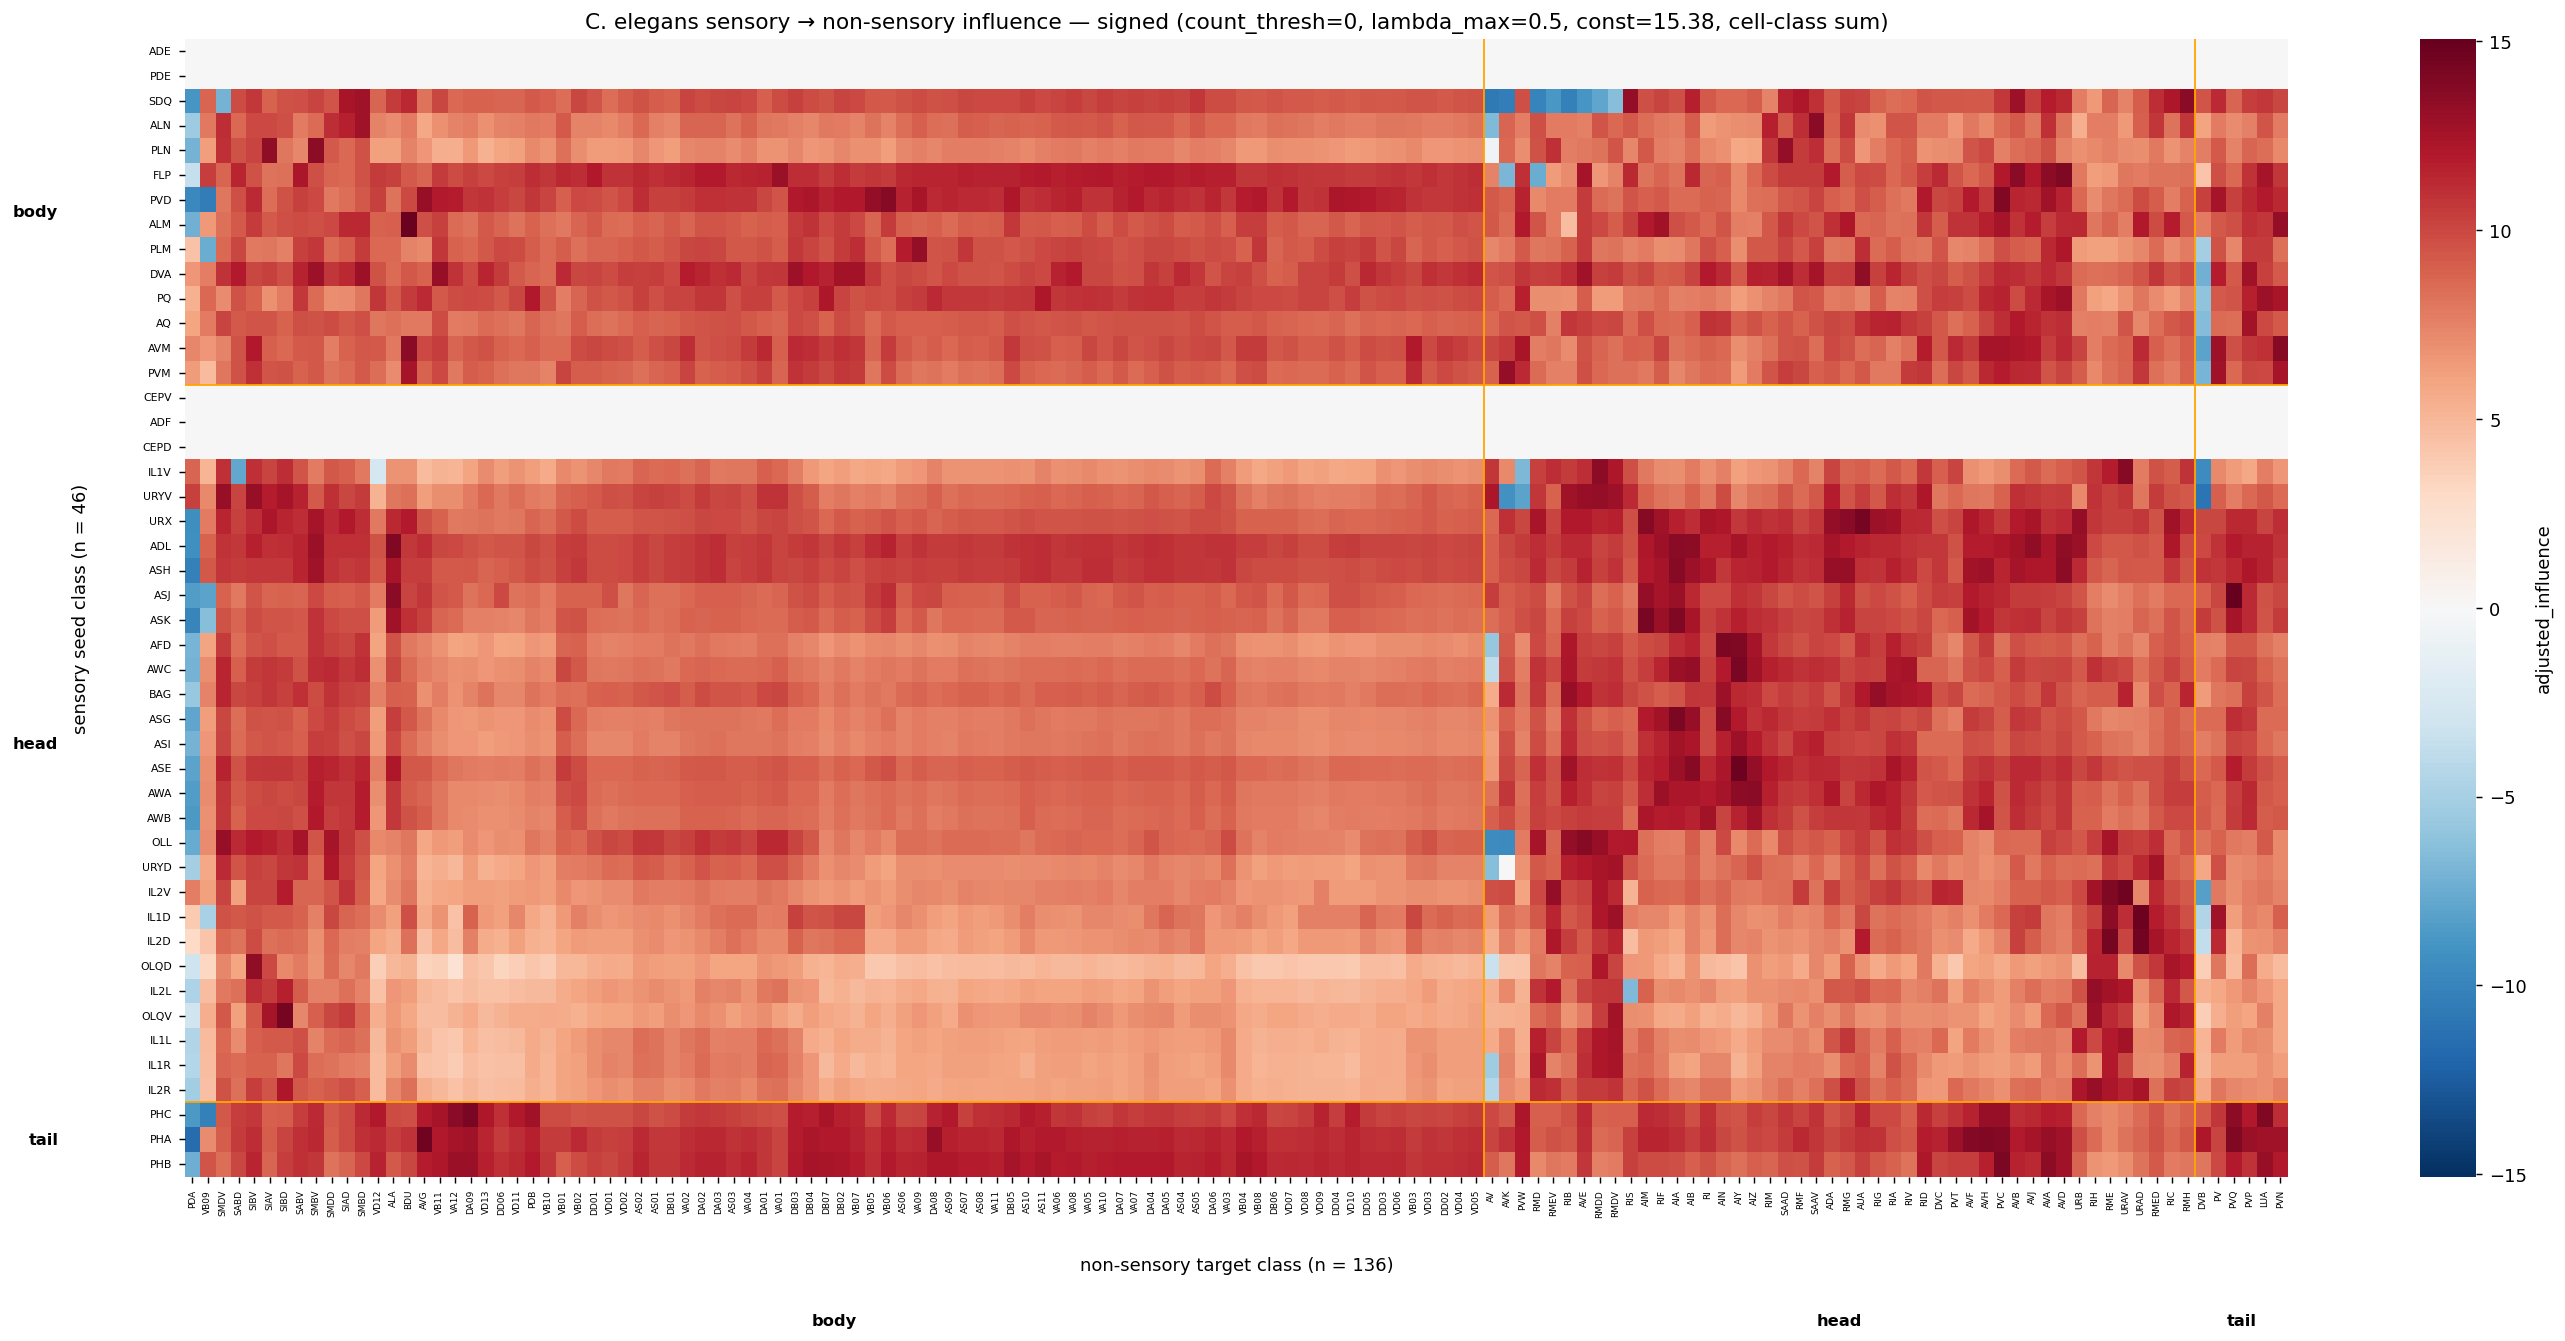
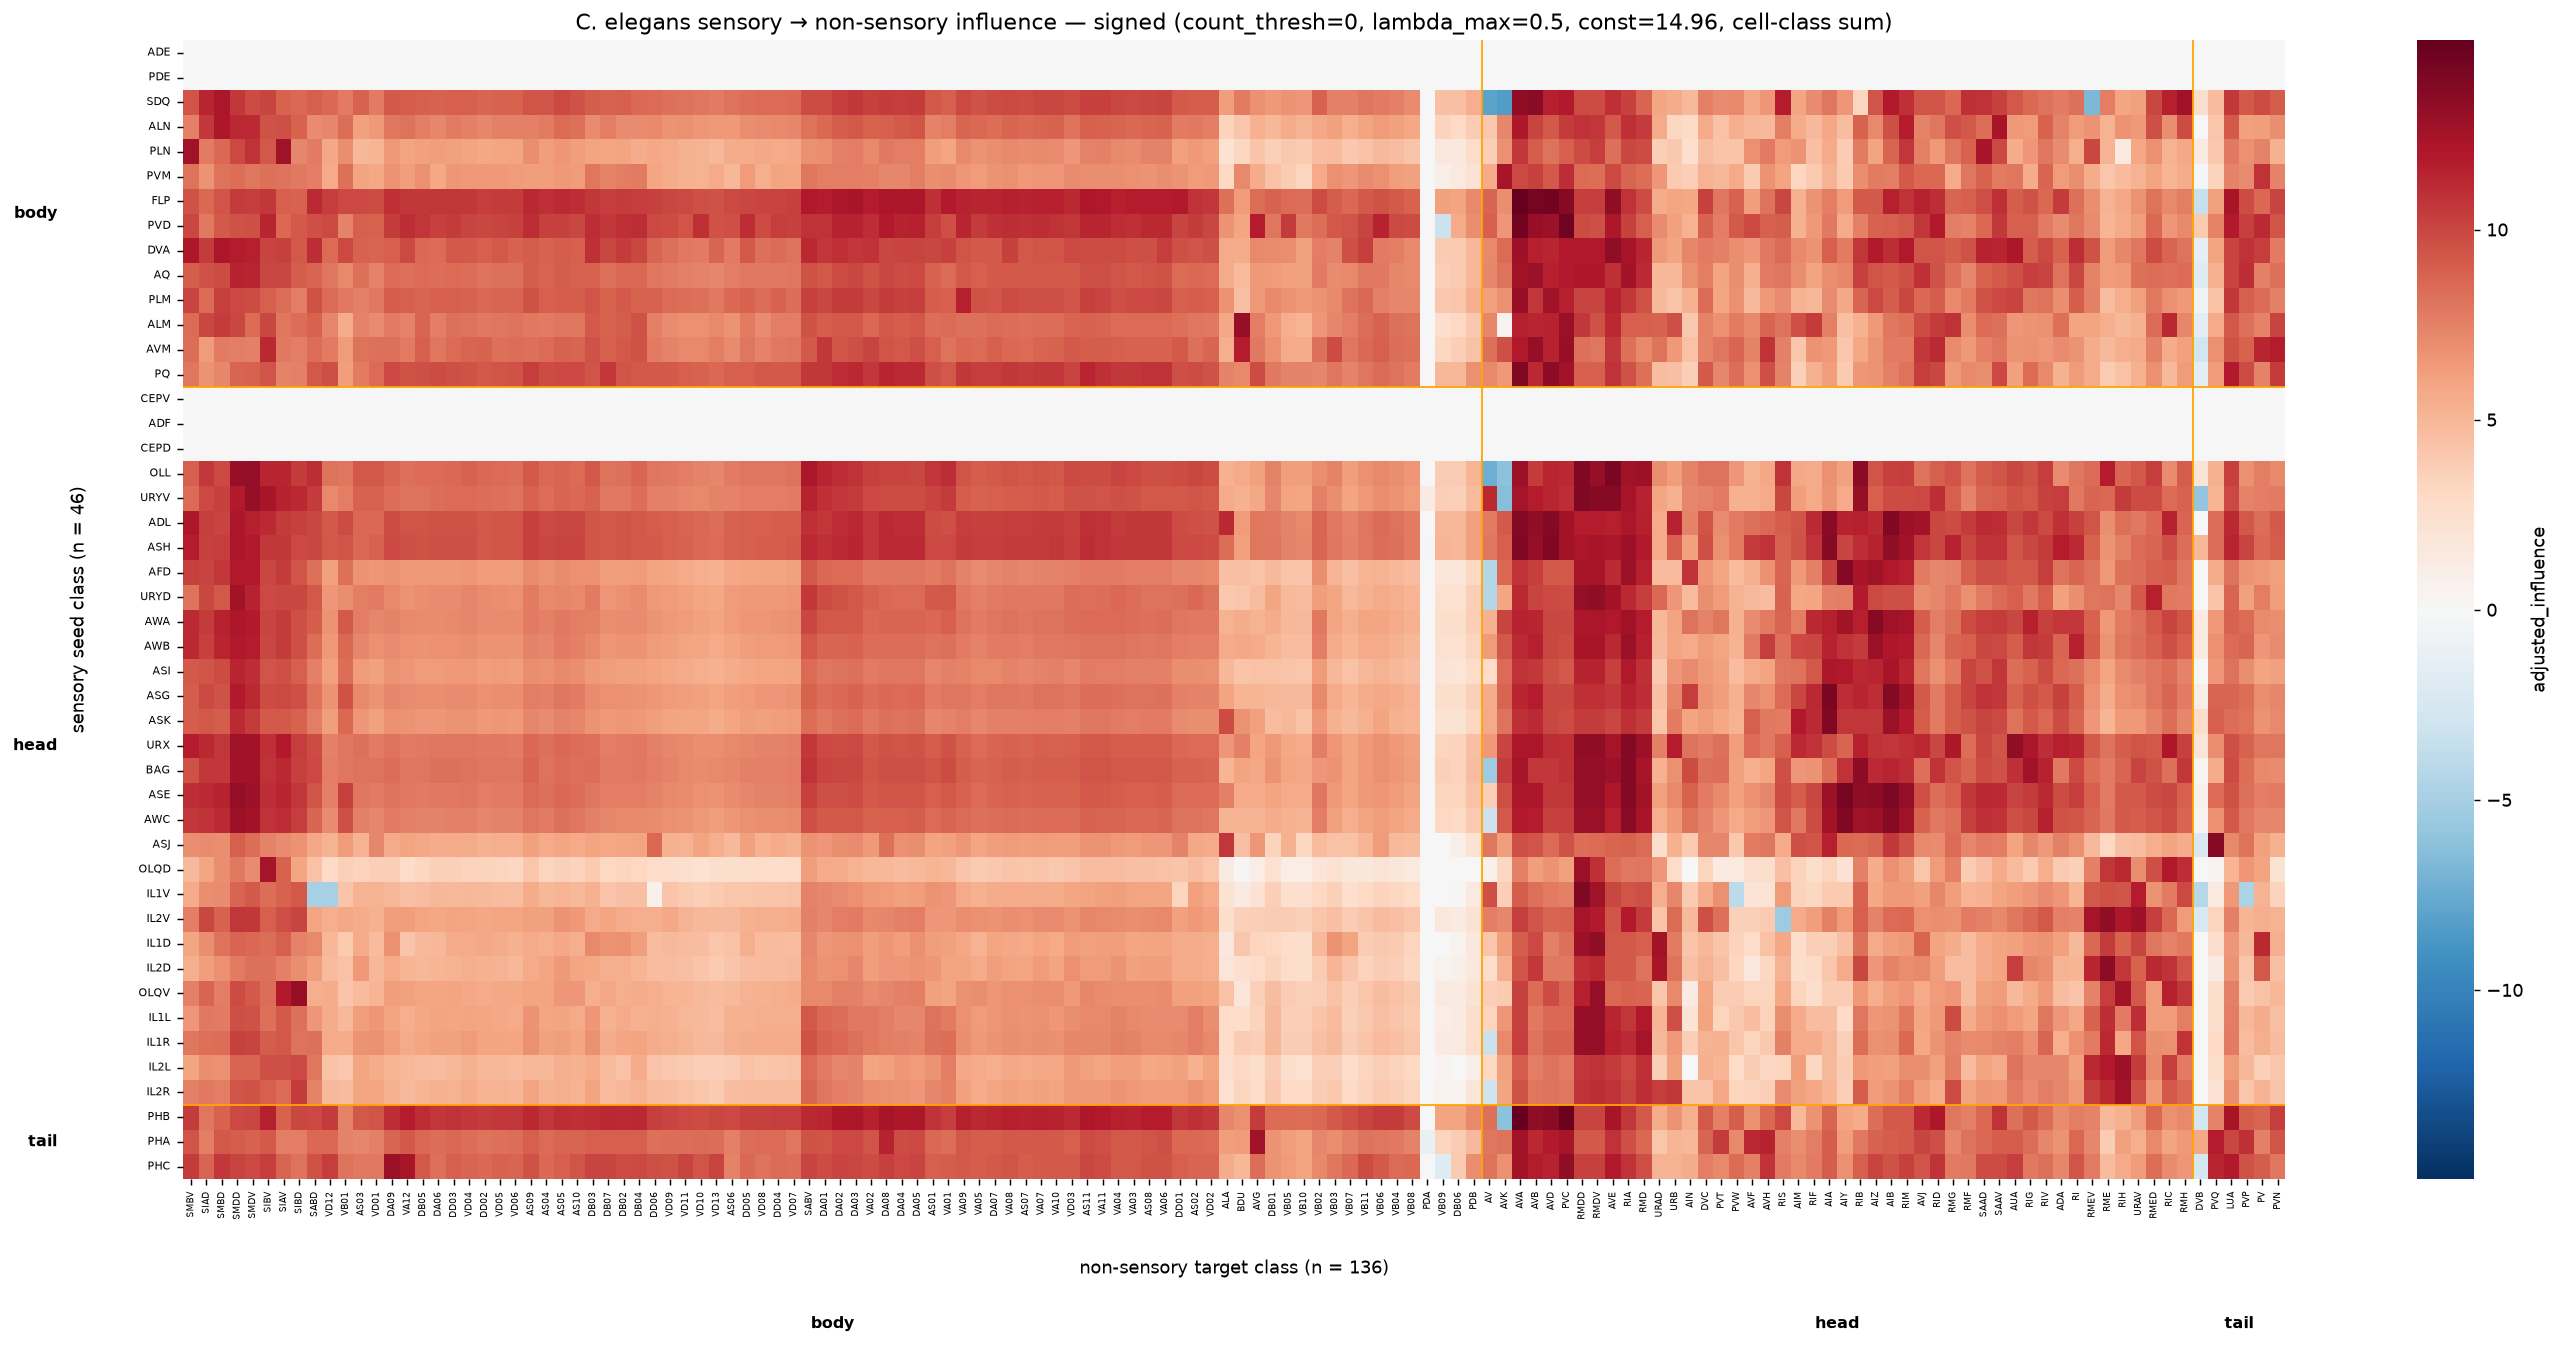
Make worked-example const reproducible across machines
The example auto-calibrated adjust_influence's `const` as
-log(min nonzero |per-pair sum|).  Anchoring to the absolute minimum
is not portable: the smallest non-zero magnitude belongs to a
near-disconnected (target, seed) pair and is dominated by GMRES
round-off (~1e-12), which varies by PETSc/SLEPc/BLAS build and
platform.  Feeding that into -log() inflated const by ~10 units
(signed: 15.4 -> 26.1 here), shifting every real value into the
saturated top of the diverging colormap and producing a washed-out,
machine-dependent heatmap -- the discrepancy Zaki reported when
re-running the example.

Anchor const to the 1st percentile of the non-zero magnitudes
instead (new CONST_PERCENTILE constant).  The percentile tracks the
real signal floor, is robust to the round-off tail, and reproduces
across machines: signed const settles at ~15 (≈ the original
reference image) and the heatmaps regain full dynamic range.

Regenerate both heatmaps and update the README adjust_influence
calibration recipe to use np.percentile(..., 1) rather than .min().

diff --git a/examples/celegans_worked_example.py b/examples/celegans_worked_example.py
@@ -6,9 +6,11 @@ from every sensory neuron onto every non-sensory target, collapses
 bilateral pairs into cell classes by stripping the trailing L/R
 suffix on both seed and target sides (so AVAL/AVAR → AVA, AVDL/AVDR →
 AVD, IL2DL/IL2DR → IL2D), sums the raw influence per
-(target_class, seed_class), log-adjusts via adjust_influence with an
-auto-calibrated const, and renders the result as two heatmaps
-(unsigned and signed).
+(target_class, seed_class), log-adjusts via adjust_influence with a
+const auto-calibrated from a low percentile of the non-zero magnitudes
+(so it tracks the real signal floor and reproduces across machines
+rather than chasing solver round-off), and renders the result as two
+heatmaps (unsigned and signed).
 
 The heatmaps show the raw adjusted_influence values directly — no
 per-row min-max rescaling is applied — anchored at 0 and at the data
@@ -96,6 +98,20 @@ COUNT_THRESH = 0
 # (~2x) damps that mode and exposes per-target seed-specificity, at
 # the cost of attenuating long polysynaptic paths.
 LAMBDA_MAX = 0.5
+
+# Percentile of the non-zero per-(target, seed) |influence| sums used
+# to auto-calibrate the adjust_influence `const`, which sets both the
+# junk-node floor exp(-const) and the diverging colour-scale bound.
+# Anchoring to the absolute minimum (the 0th percentile) is NOT
+# portable: the smallest non-zero magnitude belongs to a
+# near-disconnected pair and is dominated by GMRES round-off (~1e-12),
+# which varies by PETSc/SLEPc/BLAS build and platform. Feeding that
+# into -log() inflates const by ~10 units, which shifts every real
+# value into the saturated top of the colormap and produces a
+# washed-out, machine-dependent heatmap. The 1st percentile tracks the
+# real signal floor instead, so const -- and the rendered figure --
+# reproduce across machines.
+CONST_PERCENTILE = 1.0
 
 
 def build_calculator(edges, meta, signed):
@@ -283,12 +299,16 @@ def main():
         sub_raw['target'] = sub_raw['target'].map(name_to_class)
         sub_raw['seed'] = sub_raw['seed'].map(name_to_class)
 
-        # Auto-calibrate const from the cell-class summed magnitudes so
-        # the smallest non-zero |sum| just clips to 0.
+        # Auto-calibrate const from the cell-class summed magnitudes.
+        # Anchor to CONST_PERCENTILE (a low percentile) rather than the
+        # absolute minimum: the smallest non-zero |sum| is solver
+        # round-off and is not reproducible across machines (see the
+        # CONST_PERCENTILE comment above). Everything below the
+        # resulting exp(-const) floor clips to 0.
         per_pair = (sub_raw.groupby(['target', 'seed'])[score_col]
                            .sum().abs())
         per_pair = per_pair[per_pair > 0]
-        const = float(-np.log(per_pair.min()))
+        const = float(-np.log(np.percentile(per_pair, CONST_PERCENTILE)))
 
         adjusted = InfluenceCalculator.adjust_influence(sub_raw, const=const)
         matrix = adjusted.pivot_table(index='target', columns='seed',

diff --git a/README.md b/README.md
@@ -165,14 +165,14 @@ adjusted_influence = log(raw_influence) + const
 
 The plot above compares `adjusted_influence` (y-axis) against **graph-traversal depth** (x-axis) — the average number of synaptic hops a signal must traverse to reach a given target from the seed via shortest-path BFS through the connectome — for one seed neuron in the BANC connectome. Targets that are *directly* connected to the seed (red) sit at the top of the distribution; targets reached only by longer indirect chains (grey) sit lower. The relationship is almost linear (R² = 0.94, slope ≈ −1.3), which means each additional synaptic step costs roughly 1.3 units of `adjusted_influence` — so a four-hop target lands ≈ 5 units below a directly-connected one. This near-linear scaling is what makes the score easy to read off a heatmap and to compare across seed/target groups: differences in `adjusted_influence` map onto differences in *effective polysynaptic distance*, with the log transform turning the multiplicative gain stack of indirect paths into additive units.
 
-`const` defines the floor: any score below `exp(-const)` is clipped to zero (a "junk-node" cutoff for nodes that are nearly disconnected from the seed). The default `const=24` is calibrated for the *Drosophila* BANC connectome (~130k neurons, minimum meaningful score ~3.8e-11). For smaller networks, compute it from your data:
+`const` defines the floor: any score below `exp(-const)` is clipped to zero (a "junk-node" cutoff for nodes that are nearly disconnected from the seed). The default `const=24` is calibrated for the *Drosophila* BANC connectome (~130k neurons, minimum meaningful score ~3.8e-11). For smaller networks, compute it from your data — but anchor to a **low percentile** of the non-zero scores, not the absolute minimum. The single smallest non-zero score belongs to a near-disconnected pair and is dominated by iterative-solver (GMRES) round-off (`~1e-12`), which varies by PETSc/SLEPc/BLAS build and platform; feeding it to `-log()` makes `const` — and the whole colour scale — non-reproducible and pushes the real signal into a saturated band. A low percentile tracks the true signal floor and reproduces across machines:
 
 ```python
 import numpy as np
 results = ic.calculate_influence(seed_neurons)
 raw_col = 'Influence_score_(unsigned)'  # or 'Influence_score_(signed)'
-min_nonzero = results.loc[results[raw_col] > 0, raw_col].min()
-const = -np.log(min_nonzero)
+nonzero = results.loc[results[raw_col] > 0, raw_col].abs()
+const = -np.log(np.percentile(nonzero, 1))  # 1st-percentile floor
 adjusted = InfluenceCalculator.adjust_influence(results, const=const)
 ```
 
@@ -222,7 +222,7 @@ The full script — including the heatmaps below, cell-class summation across bi
 |---|---|
 | `inhibitory_nts` / `excluded_nts` | which `top_nt` values are negated vs zeroed in signed mode. The library has no per-organism defaults; only acetylcholine (positive) and GABA (negated) have unambiguous signs in *C. elegans*, so the rest are excluded. The example file's header comment lists *Drosophila* and *C. elegans* conventions side by side. |
 | `lambda_max` | target spectral radius of W̃ — the "reverb knob" introduced in the [Description](#description). Default `0.99` (gain `100×`) makes every target column share a near-identical shape; `0.5` (gain `2×`, used here) exposes per-target seed specificity. |
-| `const` (for `adjust_influence`) | auto-calibrated from the data so the smallest non-zero magnitude maps to 0 — see the [`adjust_influence`](#adjust_influence-log-compression-and-grouping) section above. |
+| `const` (for `adjust_influence`) | auto-calibrated from a low percentile of the non-zero magnitudes (not the absolute minimum, which is solver round-off) so it reproduces across machines — see the [`adjust_influence`](#adjust_influence-log-compression-and-grouping) section above. |
 
 ![Unsigned heatmap](docs/images/influence_heatmap_unsigned.png)
 